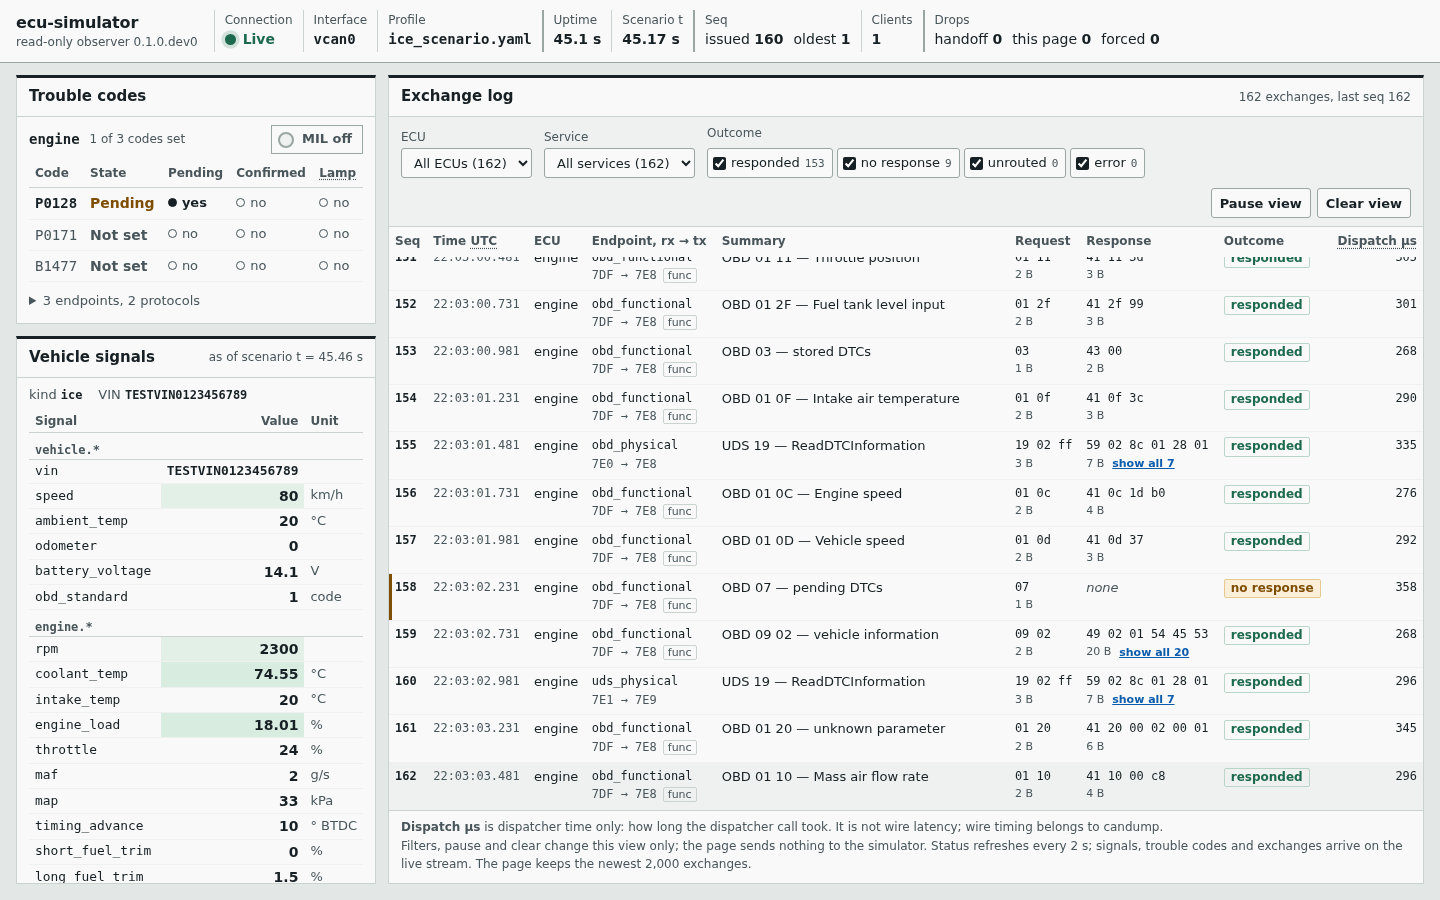
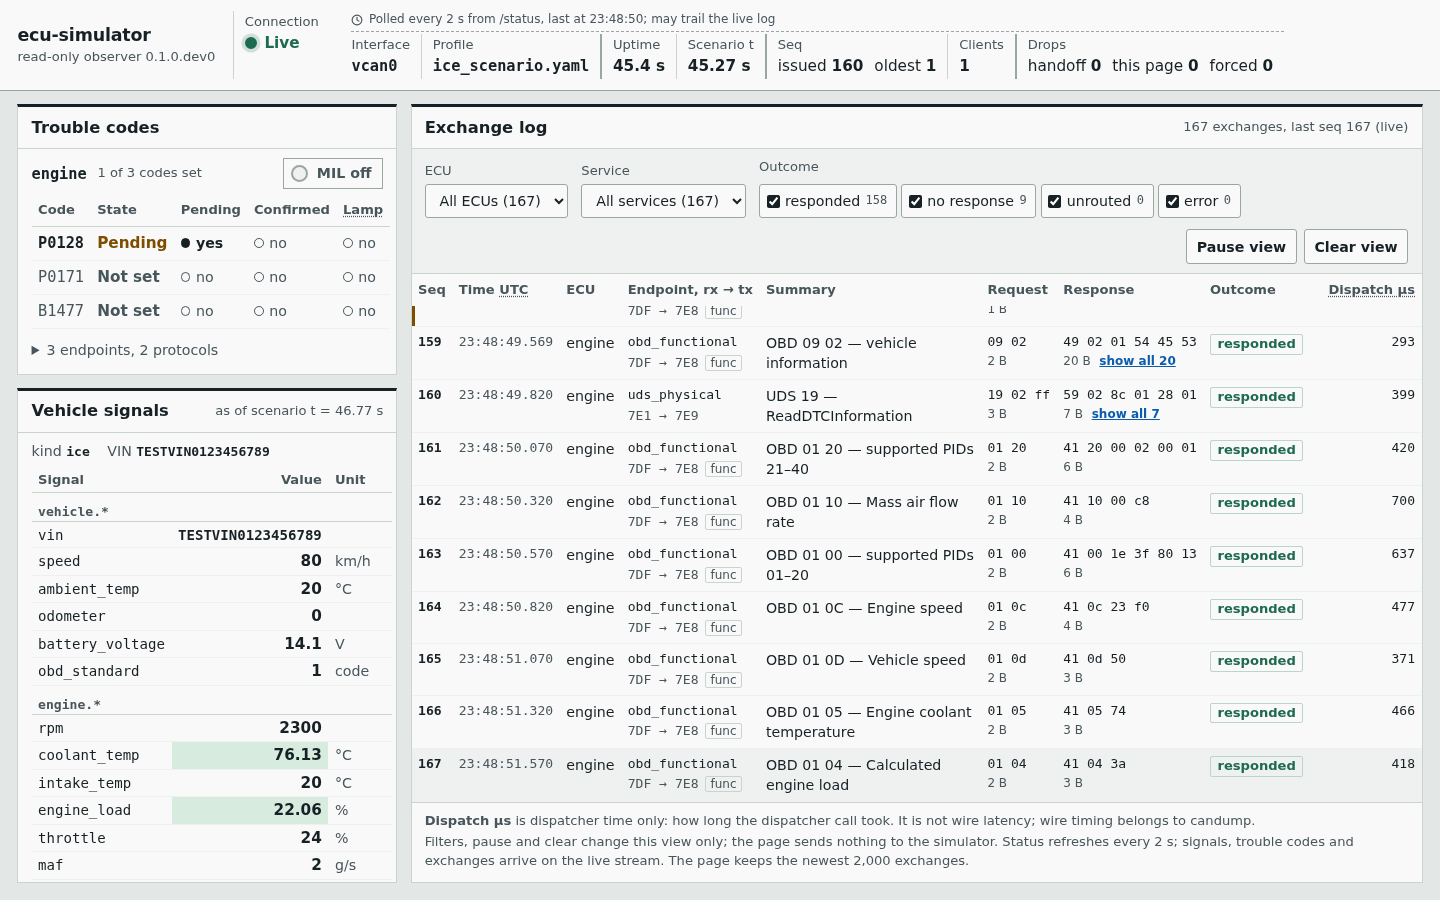
docs(validation): retake the M3a live demo at 8d953d3, with 2000 px and supported-PID shots
Every screenshot is from one namespace run on the page after Task 19 and Task 20: the
supported-PID summaries (b3), the polled label, the owner's 2000x1100 width (w), and
the other states at 1440. The capture script refuses to run unless its network
namespace differs from the one run_gui_demo.sh recorded before unshare. The record
notes one open finding: at 1440 the DTC table clips its Lamp column once a code is
confirmed.

diff --git a/scripts/gui_demo_capture.py b/scripts/gui_demo_capture.py
@@ -44,6 +44,7 @@ API = "127.0.0.1:8765"
 PAGE = f"http://{API}/"
 DEVTOOLS_PORT = 9222
 WIDE = (1440, 900)
+OWNER_WIDE = (2000, 1100)
 NARROW = (390, 844)
 TRAFFIC_RATE = "4"
 
@@ -300,6 +301,11 @@ async def session(run: Run, chrome: str, profile_dir: str) -> None:
             await cdp.shot(run, "b1-live.png")
             await until_scenario(31)
             await cdp.shot(run, "b2-live-7s-later.png")
+            # The two supported-PID range requests, 01 20 then 01 00, near the newest row.
+            await cdp.wait_for("(function(){var r=document.querySelector('#log-body tr:last-child');"
+                               " return !!r && r.textContent.indexOf('supported PIDs 01') >= 0;})()", timeout=10)
+            await asyncio.sleep(0.6)
+            await cdp.shot(run, "b3-live-supported-pid-ranges.png")
 
             # d. A filter, then the paused view with held rows counted.
             await cdp.js("(function(){var s=document.getElementById('f-service'); s.value='19';"
@@ -337,6 +343,10 @@ async def session(run: Run, chrome: str, profile_dir: str) -> None:
             await asyncio.sleep(1.5)
             await cdp.shot(run, "g1-narrow-390.png")
             await cdp.shot(run, "g2-narrow-390-full-page.png", full_page=True)
+            # The owner's own desktop width.
+            await cdp.viewport(*OWNER_WIDE)
+            await asyncio.sleep(1.5)
+            await cdp.shot(run, "w-desktop-2000x1100.png")
             await cdp.viewport(*WIDE)
             await asyncio.sleep(1.0)
 
@@ -394,7 +404,19 @@ def find_chrome() -> str:
     raise SystemExit("no Chrome or Chromium found; set CHROME=/path/to/chrome")
 
 
+def require_private_namespace() -> None:
+    """Refuse to run on the host network: it would start a simulator on the host's vcan0
+    and take 127.0.0.1:8765. run_gui_demo.sh records the host's network namespace before
+    unshare; this process must be in a different one."""
+    host = os.environ.get("GUI_DEMO_HOST_NETNS")
+    here = os.readlink("/proc/self/ns/net")
+    if not host or host == here:
+        raise SystemExit("gui_demo_capture.py runs only inside scripts/run_gui_demo.sh's private "
+                         f"network namespace (host {host or 'unknown'}, here {here}); refusing")
+
+
 def main(argv: list[str] | None = None) -> int:
+    require_private_namespace()
     parser = argparse.ArgumentParser(description=__doc__.splitlines()[0])
     parser.add_argument("outdir", type=Path, help="directory for the screenshots and logs")
     args = parser.parse_args(argv)

diff --git a/docs/validation/gui-m3a-live-demo.md b/docs/validation/gui-m3a-live-demo.md
@@ -7,34 +7,36 @@ relieves it. The `dispatch_us` values visible in the screenshots are dispatcher 
 single run at a human request rate, and are not evidence about latency.
 
 **The V1.0 and Phase 8b gates are untouched.** No simulator, protocol, profile, API
-endpoint or server code changed in this task. The page fix is in the static files under
-`src/ecu_simulator/api/static/` (`app.css`, `app.js`, `index.html`; `4b92c9a`, see
-"Findings"), and these screenshots were then retaken against it. Apart from that fix, the
-changes are the demo scripts and this record.
+endpoint or server code changed in this task. The page fixes are in the static files under
+`src/ecu_simulator/api/static/` (`app.css`, `app.js`, `index.html`): `4b92c9a` (see
+"Findings") and Task 20's `8d953d3`. The supported-PID summaries come from Task 19's
+`5e9361b` and `cfd8c24` in `observe/`. These screenshots were retaken against all of
+them. Apart from those, the changes are the demo scripts and this record.
 
 ## What was run
 
 | Item | Value |
 |---|---|
-| Branch, commit | `gui` at `4b92c9a14709ae4f6bf779fd07d98fcf71e3a8f3` (page fix round 2). The capture script's update was committed on top; it changes only the capture steps |
-| Date | 2026-09-28, 22:02:17 UTC (capture start) |
+| Branch, commit | `gui` at `8d953d38eeff4bc2f61e1a175a74e9d065a386ed` (Task 20: desktop widths, polled label). The capture script's update was committed on top; it adds capture steps and the namespace guard only |
+| Date | 2026-09-28, 23:48:04 UTC (capture start) |
 | Kernel | Linux 6.8.0-138-generic |
 | CPU governor | `powersave` on all 12 CPUs (not pinned; this is not a timing run) |
 | Python | 3.12.12 (worktree `.venv`) |
 | Browser | Google Chrome 151.0.7922.173, `--headless=new --no-sandbox`, driven over the DevTools protocol |
-| Isolation | `unshare -r -n`: a private user and network namespace with its own `lo` and `vcan0`. The host's `vcan0` and `can0` were never used |
+| Isolation | `unshare -r -n`: a private user and network namespace with its own `lo` and `vcan0`. The host's `vcan0` and `can0` were never used. The owner's own simulator was running on the host's `vcan0` and `127.0.0.1:8765` at the same time, untouched: the namespace has its own loopback. `gui_demo_capture.py` refuses to start unless its network namespace differs from the one `run_gui_demo.sh` recorded before `unshare` |
 
 The one command:
 
 ```
-scripts/run_gui_demo.sh <scratchpad>/run4
+scripts/run_gui_demo.sh <scratchpad>/run6
 ```
 
 The screenshots in [gui-m3a-live-demo/](gui-m3a-live-demo/) are all from that one run,
 copied unchanged, with its `capture.log` (the step log) and `traffic.log` (every request
-and answer the generator saw). The same command had been run three times before, to develop
-the capture script and against the page before `4b92c9a`. Those runs are not the record,
-and none of their screenshots is kept.
+and answer the generator saw). The same command had been run five times before, to develop
+the capture script and against earlier pages. Those runs are not the record, and none of
+their screenshots is kept. Run 5, at the same commit, lacked the dedicated supported-PID
+shot (b3), so the whole set was retaken.
 
 Inside the namespace, `scripts/gui_demo_capture.py`:
 
@@ -69,7 +71,8 @@ cycle:
     endpoints the profile routes UDS to.
 
 It sends no write, clear or session change: no OBD 04, and no UDS 0x14, 0x2E, 0x31 or
-0x10. A module-level assertion rejects any of those service IDs in the cycle.
+0x10. At import, an allowlist check (`if`/`raise`, so `python -O` keeps it) rejects any
+service outside 0x01, 0x03, 0x07, 0x09, 0x19 and 0x22.
 
 Two requests are deliberately ones today's simulator does not serve:
 
@@ -85,24 +88,30 @@ The scenario times are the page's own "Scenario t". The scenario raises P0128 pe
 t = 40 s, then confirmed with the MIL requested at t = 75 s. Its speed and rpm timelines
 hold each value until the next point; they do not interpolate.
 
+All shots are at 1440×900 unless the name says otherwise. From the first live shot on,
+the status bar shows the polled label: "Polled every 2 s from /status, last at HH:MM:SS;
+may trail the live log".
+
 | File | What it shows |
 |---|---|
 | [a-loading.png](gui-m3a-live-demo/a-loading.png) | **Loading.** "Connecting"; "Loading trouble codes", "Loading vehicle signals", "Loading the exchange history". The first `/api/v1/` request was held in DevTools to capture this; otherwise it lasts well under a second |
-| [h1-empty-fresh-start.png](gui-m3a-live-demo/h1-empty-fresh-start.png) | **Empty: a fresh start before any traffic.** Live, t = 1.08 s, seq issued 0. "No exchanges yet. The simulator has not handled a diagnostic request since it started." The scenario is already moving `coolant_temp` and `engine_load` (flash highlights) |
-| [b1-live.png](gui-m3a-live-demo/b1-live.png) | **Live, t ≈ 23 s.** 81 exchanges: speed 30, rpm 1600, coolant 48.45 °C, load 30.99 %, throttle 24 %. The rows include OBD 01 PIDs, UDS 19 on 7E1, the 0x22 NRC and the 20-byte 09 02 VIN answer. The log shows the newest row, 81 |
-| [b2-live-7s-later.png](gui-m3a-live-demo/b2-live-7s-later.png) | **Live, t ≈ 29–31 s, about 7 s later.** 107 exchanges: speed 55, rpm 1900, coolant 56.85 °C, load 59.8 %, throttle 41 %. The controls have wrapped to a second line, and the log still shows the newest row, 107 |
-| [d1-filter-service-0x19.png](gui-m3a-live-demo/d1-filter-service-0x19.png) | **The service filter 0x19.** "12 of 112 shown". UDS 19 rows from 7E0 and 7E1, with "N exchanges hidden by filters (not a gap)" between them |
-| [d2-paused-held-rows.png](gui-m3a-live-demo/d2-paused-held-rows.png) | **Paused, after the filter was reset.** "View paused. 19 new exchanges are held"; the header reads "112 exchanges, last seq 131"; the button reads "Resume view". The log is at row 112, the last one before the pause |
-| [d3-resumed-log-following.png](gui-m3a-live-demo/d3-resumed-log-following.png) | **3 s after Resume: the log follows.** It reads "143 exchanges, last seq 143", and row 143 is the last visible row. There was no scrolling |
-| [d4-scrolled-up-new-rows-below.png](gui-m3a-live-demo/d4-scrolled-up-new-rows-below.png) | **After a real wheel scroll up, with 700 px of deltaY.** The log stays at rows 119–129 while exchanges arrive (156). The page's control reads "12 new rows below, jump to newest" |
-| [d5-jumped-to-newest.png](gui-m3a-live-demo/d5-jumped-to-newest.png) | **After a real click on that control.** The control is gone, and the log shows the newest row, 161 of 161 |
-| [c1-dtc-pending.png](gui-m3a-live-demo/c1-dtc-pending.png) | **DTC pending, t ≈ 45 s.** P0128 "Pending", "1 of 3 codes set", MIL off. UDS 19 02 FF now answers `59 02 8C 01 28 01` (rows 155 and 160: P0128 in the record). The log is following, at row 162 |
-| [c2-dtc-confirmed-mil.png](gui-m3a-live-demo/c2-dtc-confirmed-mil.png) | **DTC confirmed with the MIL, t ≈ 79 s.** P0128 "Confirmed", with pending, confirmed and lamp all yes; "MIL on". speed 80, rpm 2100, coolant 92 °C (the ramp's end). The log is at row 293 |
-| [g1-narrow-390.png](gui-m3a-live-demo/g1-narrow-390.png) | **390 px wide, viewport.** The status bar as a two-column grid; the trouble codes with MIL on |
-| [g2-narrow-390-full-page.png](gui-m3a-live-demo/g2-narrow-390-full-page.png) | **390 px wide, full page.** Panels stacked; log rows as blocks, rows 296–301, ending at the newest |
-| [e-disconnected-stale.png](gui-m3a-live-demo/e-disconnected-stale.png) | **Disconnected, about 4 s after SIGTERM, at desktop width.** "Disconnected, retry in 4 s". The banner reads "Last live 22:03:41 UTC (3 s ago) … the simulator is shutting down (1001). Latest retry: status request failed …", with "Retry now". Each panel shows "Stale, as of 22:03:41 UTC", and the status readouts are struck through. **All three DTC rows (P0128, P0171, B1477) and the endpoints line are visible, unclipped.** The data (304 exchanges, MIL on) is kept |
-| [f-reconnected-after-restart.png](gui-m3a-live-demo/f-reconnected-after-restart.png) | **Reconnected after a restart.** Live at t = 4.63 s, MIL off, P0128 not set. A real wheel scroll up (about 810 px) brought the page's marker into view: "Simulator restarted. A new run started at 22:03:45 UTC. Rows above are from the previous run; seq starts again at 1." Rows 300–304 of the old run are above it, and the new run's rows 1–6 below. The page's control reads "2 new rows below, jump to newest", counting the rows that arrived after the scroll |
-| [h2-no-scenario.png](gui-m3a-live-demo/h2-no-scenario.png) | **No scenario.** `ice_default.yaml`, on a fresh page load with no traffic. Scenario t reads "no scenario"; the vehicle signals read "no scenario: values as configured"; "No exchanges yet". The profile's own confirmed B1477 and P0001 are shown with MIL off, as configured |
+| [h1-empty-fresh-start.png](gui-m3a-live-demo/h1-empty-fresh-start.png) | **Empty: a fresh start before any traffic.** Live, t = 1.11 s, seq issued 0, the polled label. "No exchanges yet. The simulator has not handled a diagnostic request since it started." The scenario is already moving `coolant_temp` and `engine_load` |
+| [b1-live.png](gui-m3a-live-demo/b1-live.png) | **Live, t ≈ 23 s.** 80 exchanges: speed 30, rpm 1600, coolant 48.98 °C, load 33.35 %, throttle 41 %. It includes row 73, "OBD 01 00 — supported PIDs 01–20", and the 0x22 NRC |
+| [b2-live-7s-later.png](gui-m3a-live-demo/b2-live-7s-later.png) | **Live, t ≈ 29–31 s, about 7 s later.** 106 exchanges: speed 55, rpm 1900, coolant 57.4 °C, load 60 %. The log follows to the newest row, 106 |
+| [b3-live-supported-pid-ranges.png](gui-m3a-live-demo/b3-live-supported-pid-ranges.png) | **The new supported-PID summaries (Task 19).** Row 107 is "OBD 01 20 — supported PIDs 21–40" (`41 20 00 02 00 01`); row 109 is "OBD 01 00 — supported PIDs 01–20" (`41 00 1e 3f 80 13`). The polled label reads "Polled every 2 s from /status, last at 23:48:36; may trail the live log". The status Seq "issued 107" trails the log's "last seq 112", as that label says it may |
+| [d1-filter-service-0x19.png](gui-m3a-live-demo/d1-filter-service-0x19.png) | **The service filter 0x19.** "12 of 116 shown". UDS 19 rows from 7E0 and 7E1, with "N exchanges hidden by filters (not a gap)" between them |
+| [d2-paused-held-rows.png](gui-m3a-live-demo/d2-paused-held-rows.png) | **Paused, after the filter was reset.** "View paused. 20 new exchanges are held"; the header reads "116 exchanges, last seq 136"; the button reads "Resume view" |
+| [d3-resumed-log-following.png](gui-m3a-live-demo/d3-resumed-log-following.png) | **3 s after Resume: the log follows.** "147 exchanges, last seq 147", and row 147 is the last visible row, with no scrolling |
+| [d4-scrolled-up-new-rows-below.png](gui-m3a-live-demo/d4-scrolled-up-new-rows-below.png) | **After a real wheel scroll up (deltaY −700).** The log stays at rows 126–135 while exchanges arrive (159). The control reads "11 new rows below, jump to newest" |
+| [d5-jumped-to-newest.png](gui-m3a-live-demo/d5-jumped-to-newest.png) | **After a real click on that control.** The control is gone, and the log shows the newest row, 166 |
+| [c1-dtc-pending.png](gui-m3a-live-demo/c1-dtc-pending.png) | **DTC pending, t ≈ 46 s.** P0128 "Pending", "1 of 3 codes set", MIL off. UDS 19 02 FF on 7E1 answers `59 02 8c 01 28 01` (P0128 in the record). The log follows, at row 167 |
+| [c2-dtc-confirmed-mil.png](gui-m3a-live-demo/c2-dtc-confirmed-mil.png) | **DTC confirmed with the MIL, t ≈ 80 s.** P0128 "Confirmed", pending and confirmed yes; "MIL on"; speed 40, rpm 1400, coolant 92 °C. **The Lamp column is clipped at the panel's right edge** (see Findings) |
+| [g1-narrow-390.png](gui-m3a-live-demo/g1-narrow-390.png) | **390 px, viewport.** The status grid with the polled label wrapped under Connection; the trouble codes with MIL on, all columns visible, including Lamp "yes" |
+| [g2-narrow-390-full-page.png](gui-m3a-live-demo/g2-narrow-390-full-page.png) | **390 px, full page.** Panels stacked; every vehicle signal; log rows as blocks, 295–300, ending at the newest |
+| [w-desktop-2000x1100.png](gui-m3a-live-demo/w-desktop-2000x1100.png) | **2000×1100, the owner's width.** A wider side column, with the DTC table unclipped (Lamp "yes" for P0128); the log's summaries fit on one line, including row 305, "OBD 01 20 — supported PIDs 21–40"; the polled label |
+| [e-disconnected-stale.png](gui-m3a-live-demo/e-disconnected-stale.png) | **Disconnected, about 4 s after SIGTERM.** "Disconnected, retry in 4 s"; the polled label keeps its last time (23:49:28). The banner reads "Last live 23:49:29 UTC (4 s ago) … the simulator is shutting down (1001) …", with "Retry now". Each panel shows "Stale, as of 23:49:29 UTC", and the status readouts are struck through. All three DTC rows are visible; the Lamp column is clipped at the right edge, as in c2. The log keeps 311 exchanges, including 01 20 and 01 00 (rows 305 and 307) |
+| [f-reconnected-after-restart.png](gui-m3a-live-demo/f-reconnected-after-restart.png) | **Reconnected after a restart.** Live at t = 4.63 s, MIL off, P0128 not set. A real wheel scroll up of about 856 px shows the marker: "Simulator restarted. A new run started at 23:49:34 UTC. Rows above are from the previous run; seq starts again at 1." Old rows 308–311 are above it and new rows 1–5 below. The control reads "2 new rows below, jump to newest", counting the rows that arrived after the scroll |
+| [h2-no-scenario.png](gui-m3a-live-demo/h2-no-scenario.png) | **No scenario.** `ice_default.yaml`, on a fresh page load with no traffic. Scenario t reads "no scenario"; the vehicle signals read "no scenario: values as configured"; "No exchanges yet". The profile's confirmed B1477 and P0001 are shown with MIL off. The Lamp column is clipped, as in c2 |
 
 On the final page load, `performance.getEntriesByType('resource')` listed no resource from
 any origin other than `http://127.0.0.1:8765`. The whole run produced **no page exception
@@ -125,10 +134,17 @@ in `4b92c9a`, and the screenshots above were retaken against the fix:
 2. **In the stale view the trouble-codes panel clipped its third row** at desktop width,
    under the disconnected banner. **Fixed in `4b92c9a`:** e shows all three rows.
 
-One observation remains, not a defect: the API's `summary` strings for OBD 01 00 and 01 20
-read "unknown parameter", and the page shows them as given.
+The API's `summary` strings for OBD 01 00 and 01 20 read "unknown parameter" in the earlier
+captures. Task 19 (`5e9361b`, `cfd8c24`) changed them to "supported PIDs 01–20" and
+"supported PIDs 21–40" (b3).
 
-## Test suite at the same commit
+**Open, found in this recapture at `8d953d3`:** at 1440×900 the trouble-codes table is
+wider than its panel whenever a code reads "Confirmed". The Lamp header and its yes/no
+column are cut off at the panel's right edge (c2, e, h2). With no confirmed code (b1, c1,
+f) it fits. At 2000×1100 (w) and at 390 px (g1, g2) it is not clipped. The page was not
+changed here; this is for the owner or the next page task.
+
+## Test suite (at `4b92c9a`, Fix round 1; not rerun for this recapture)
 
 These are recorded for completeness. The demo adds no tests.
 
